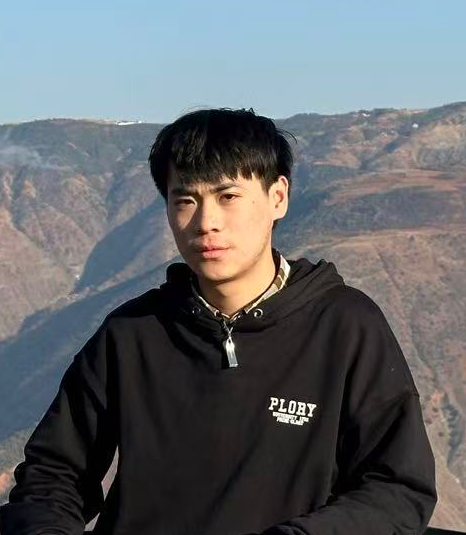
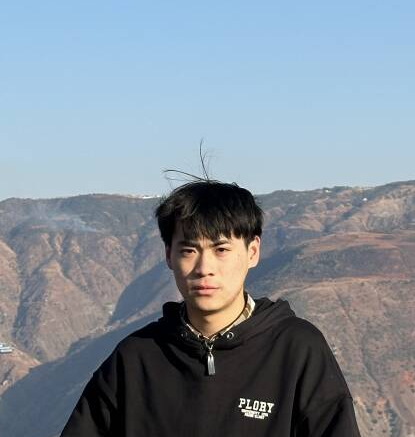
update cv and profile

diff --git a/_pages/cv.md b/_pages/cv.md
@@ -1,6 +1,13 @@
 ---
+layout: default
+title: "CV"
 permalink: /cv/
 redirect_from:
   - /resume
-redirect_to: /CV.pdf
 ---
+
+<div class="cv-embed" style="min-height: 80vh;">
+  <object data="{{ "/CV.pdf" | relative_url }}" type="application/pdf" width="100%" height="100%">
+    <p>Your browser does not support embedded PDFs. <a href="{{ "/CV.pdf" | relative_url }}" target="_blank" rel="noopener">Download the CV PDF</a>.</p>
+  </object>
+</div>
